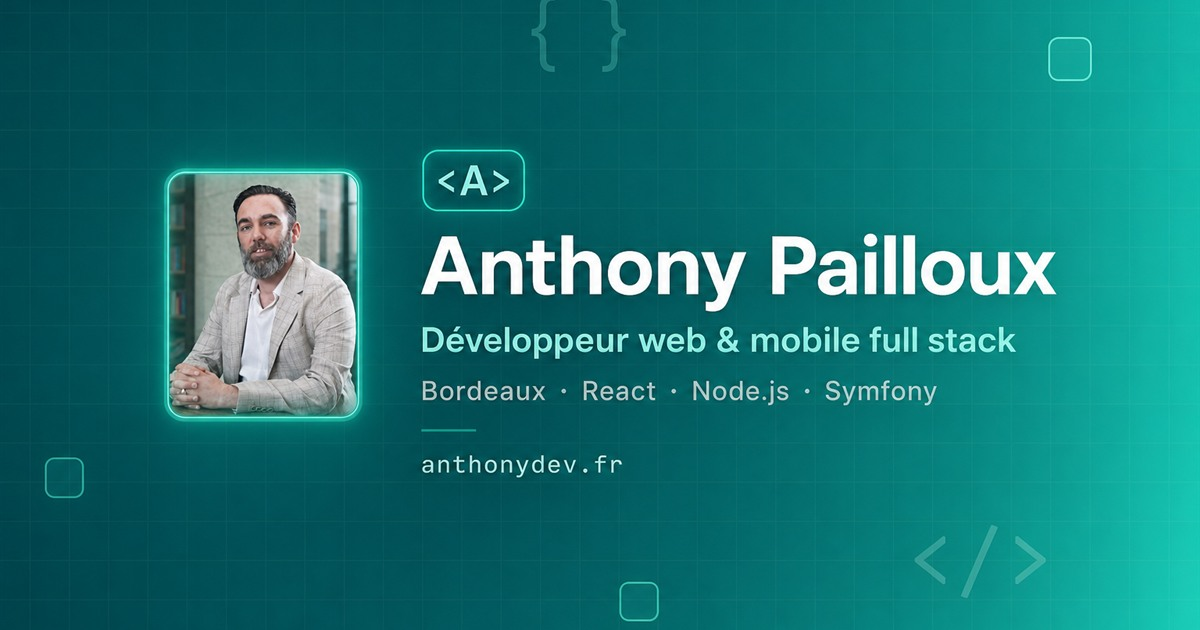
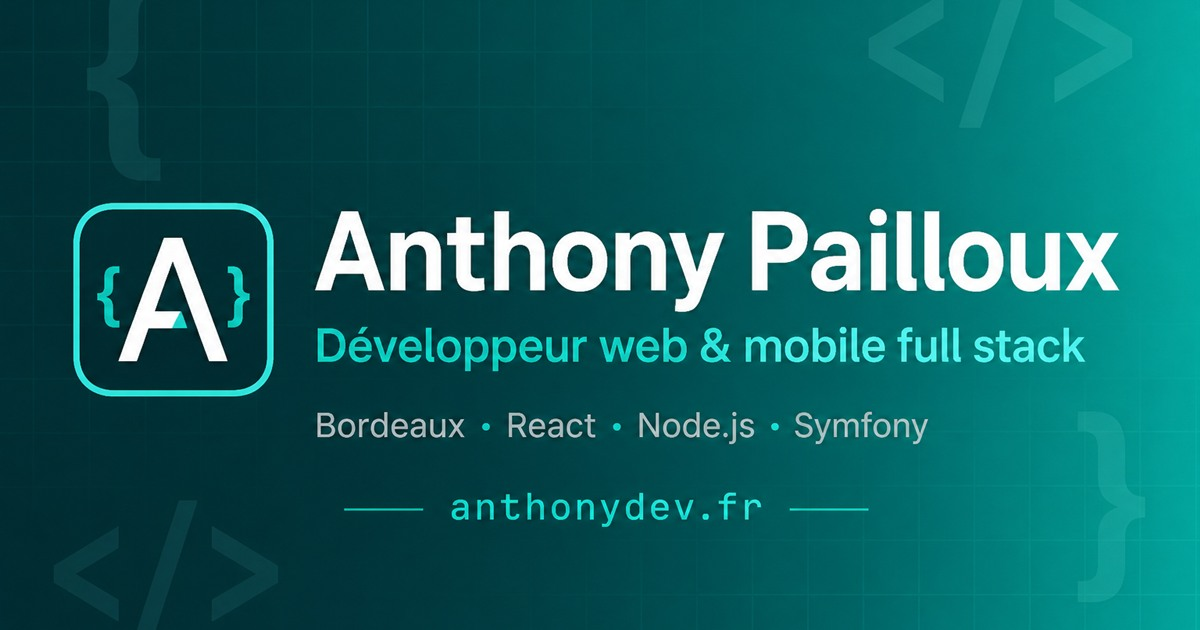
Fix WhatsApp OG: image sans visage, portrait en CSS

diff --git a/index.html b/index.html
@@ -8,14 +8,14 @@
   <meta property="og:url" content="https://anthonydev.fr/">
   <meta property="og:title" content="Anthony Pailloux — Développeur web &amp; mobile full stack · Bordeaux">
   <meta property="og:description" content="Portfolio d'Anthony Pailloux — Développeur full stack à Bordeaux. React, Node.js, PHP/Symfony, MySQL.">
-  <meta property="og:image" content="https://anthonydev.fr/assets/social-preview.jpg">
-  <meta property="og:image:secure_url" content="https://anthonydev.fr/assets/social-preview.jpg">
+  <meta property="og:image" content="https://anthonydev.fr/assets/social-preview.jpg?v=3">
+  <meta property="og:image:secure_url" content="https://anthonydev.fr/assets/social-preview.jpg?v=3">
   <meta property="og:image:type" content="image/jpeg">
   <meta property="og:image:width" content="1200">
   <meta property="og:image:height" content="630">
   <meta property="og:image:alt" content="Anthony Pailloux — Développeur web &amp; mobile full stack à Bordeaux">
   <meta property="og:locale" content="fr_FR">
-  <link rel="image_src" href="https://anthonydev.fr/assets/social-preview.jpg">
+  <link rel="image_src" href="https://anthonydev.fr/assets/social-preview.jpg?v=3">
 
   <meta name="description" content="Anthony Pailloux, développeur web &amp; mobile full stack à Bordeaux. React, Node.js, PHP/Symfony, MySQL. Découvrez mes projets et contactez-moi.">
   <title>Anthony Pailloux — Développeur web &amp; mobile full stack · Bordeaux</title>
@@ -26,7 +26,7 @@
   <meta name="twitter:creator" content="@AnthonyDev_Fr">
   <meta name="twitter:title" content="Anthony Pailloux — Développeur web &amp; mobile full stack · Bordeaux">
   <meta name="twitter:description" content="Portfolio full stack à Bordeaux — React, Node.js, Symfony, MySQL.">
-  <meta name="twitter:image" content="https://anthonydev.fr/assets/social-preview.jpg">
+  <meta name="twitter:image" content="https://anthonydev.fr/assets/social-preview.jpg?v=3">
   <meta name="twitter:image:alt" content="Anthony Pailloux — Développeur web &amp; mobile full stack à Bordeaux">
 
   <link rel="icon" href="favicon.svg" type="image/svg+xml">
@@ -162,15 +162,11 @@
         <article class="profil reveal">
           <div class="profil__media">
             <div class="profil__photo-wrap">
-              <img
+              <div
                 class="profil__photo"
-                src="assets/anthony-portrait.jpg"
-                alt="Anthony Pailloux, développeur web et mobile full stack à Bordeaux"
-                width="200"
-                height="240"
-                loading="eager"
-                decoding="async"
-              >
+                role="img"
+                aria-label="Anthony Pailloux, développeur web et mobile full stack à Bordeaux"
+              ></div>
             </div>
             <p class="profil__name">Anthony Pailloux</p>
             <p class="profil__meta">Bordeaux · Full stack</p>

diff --git a/style.css b/style.css
@@ -528,8 +528,7 @@ ul {
 .profil__photo {
   width: 100%;
   aspect-ratio: 5 / 6;
-  object-fit: cover;
-  object-position: center top;
+  background: url("assets/anthony-portrait.jpg") center top / cover no-repeat;
 }
 
 .profil__name {
